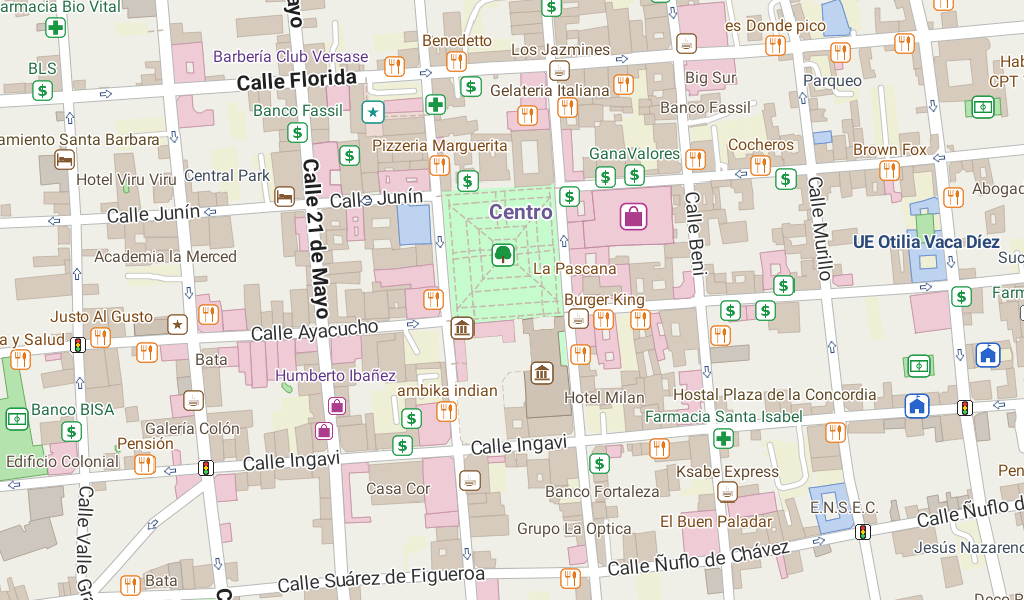
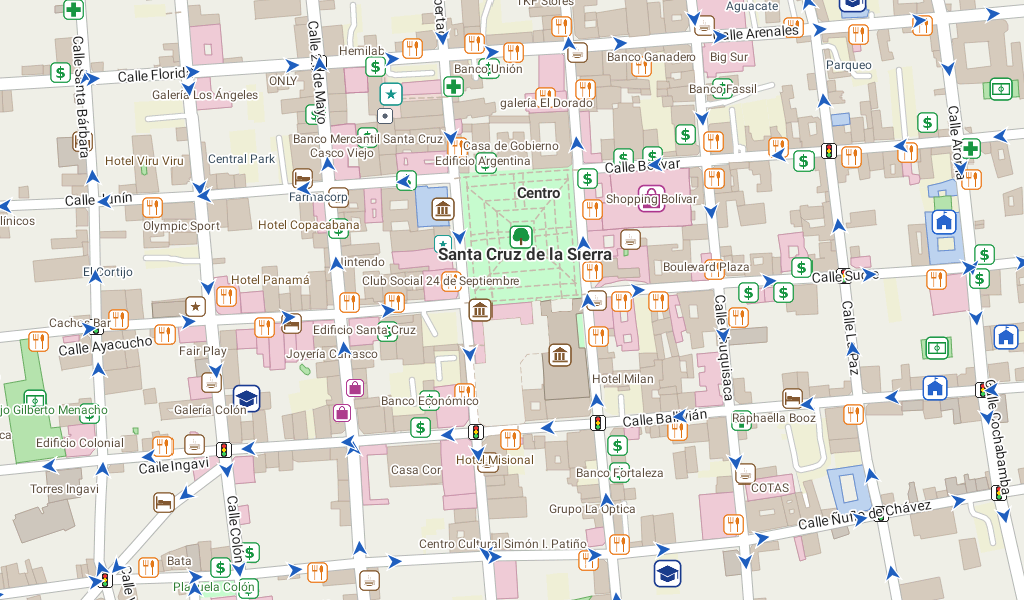
Mapas sin internet regenerados (ciudad, avenidas, calles y noche) con el motor actual y tabla del README con tamanos iguales

diff --git a/README.md b/README.md
@@ -23,13 +23,18 @@ Funciona sin internet una vez descargado el mapa de tu región.
 
 **Mapa sin internet** (dibujado con el motor real de la app, a distintos niveles de zoom; datos © colaboradores de OpenStreetMap)
 
-| Ciudad | Avenidas | Calles |
-|---|---|---|
-| ![Mapa ciudad](docs/screenshots/mapa-ciudad.png) | ![Mapa avenidas](docs/screenshots/mapa-avenidas.png) | ![Mapa calles](docs/screenshots/mapa-calles.png) |
+<table>
+<tr><th align="center">Ciudad</th><th align="center">Avenidas</th><th align="center">Calles</th></tr>
+<tr>
+<td><img src="docs/screenshots/mapa-ciudad.png" alt="Mapa ciudad" width="330"></td>
+<td><img src="docs/screenshots/mapa-avenidas.png" alt="Mapa avenidas" width="330"></td>
+<td><img src="docs/screenshots/mapa-calles.png" alt="Mapa calles" width="330"></td>
+</tr>
+</table>
 
 Modo noche (tema propio, calles claras sobre fondo oscuro):
 
-![Mapa de noche](docs/screenshots/mapa-noche.png)
+<img src="docs/screenshots/mapa-noche.png" alt="Mapa de noche" width="700">
 
 Navegación (ruta real calculada por el enrutador de la app sobre el mapa sin internet; el auto apunta hacia donde avanzas, el mapa gira para que siempre veas hacia adelante y los nombres de calles y lugares quedan siempre derechos, las flechas blancas marcan el sentido de la ruta y las azules las calles de un solo sentido; el banner y los paneles son una maqueta):
 
